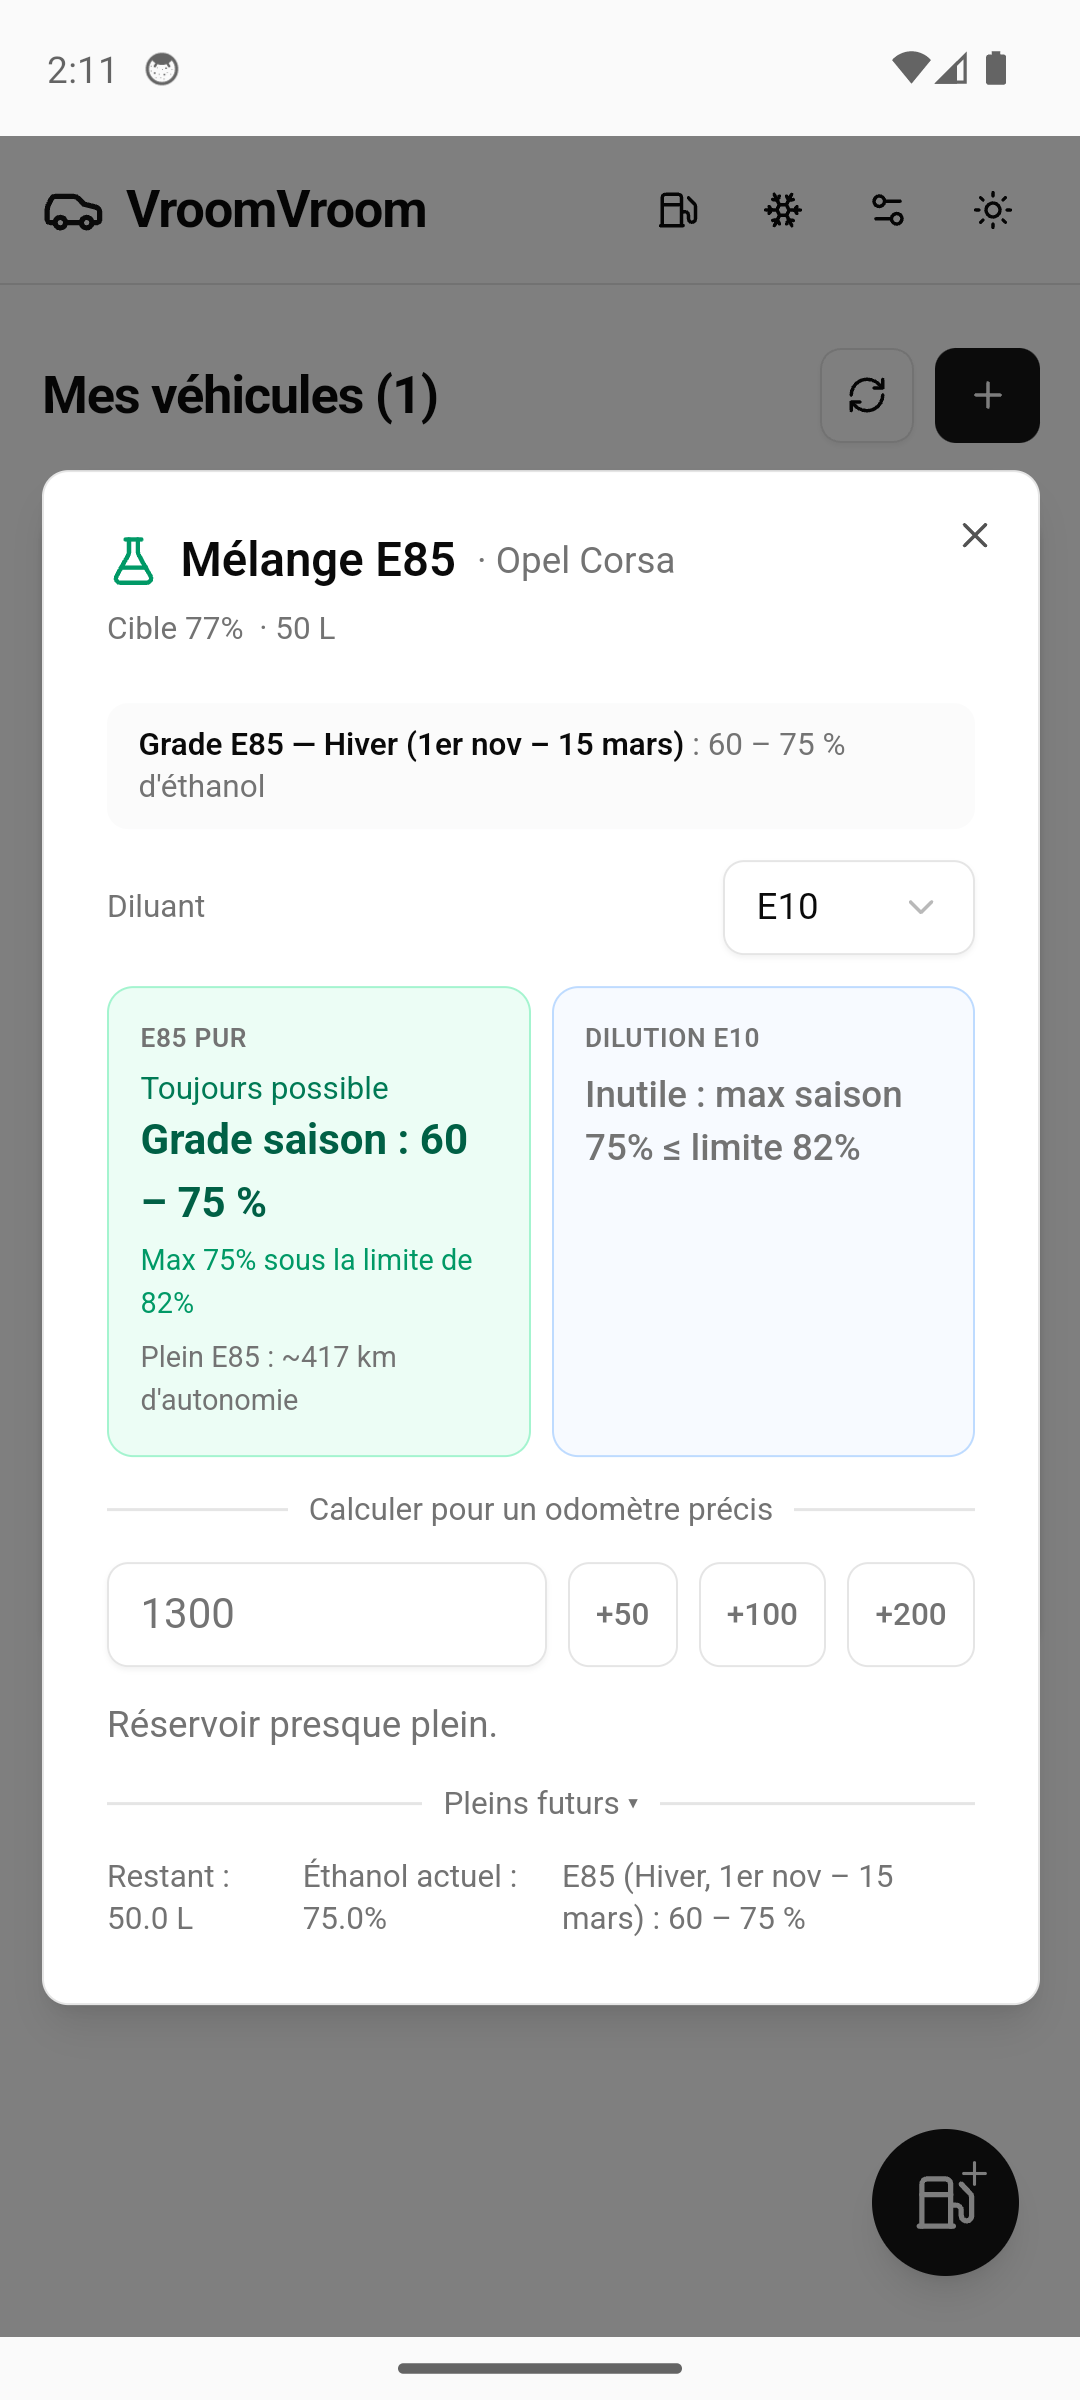
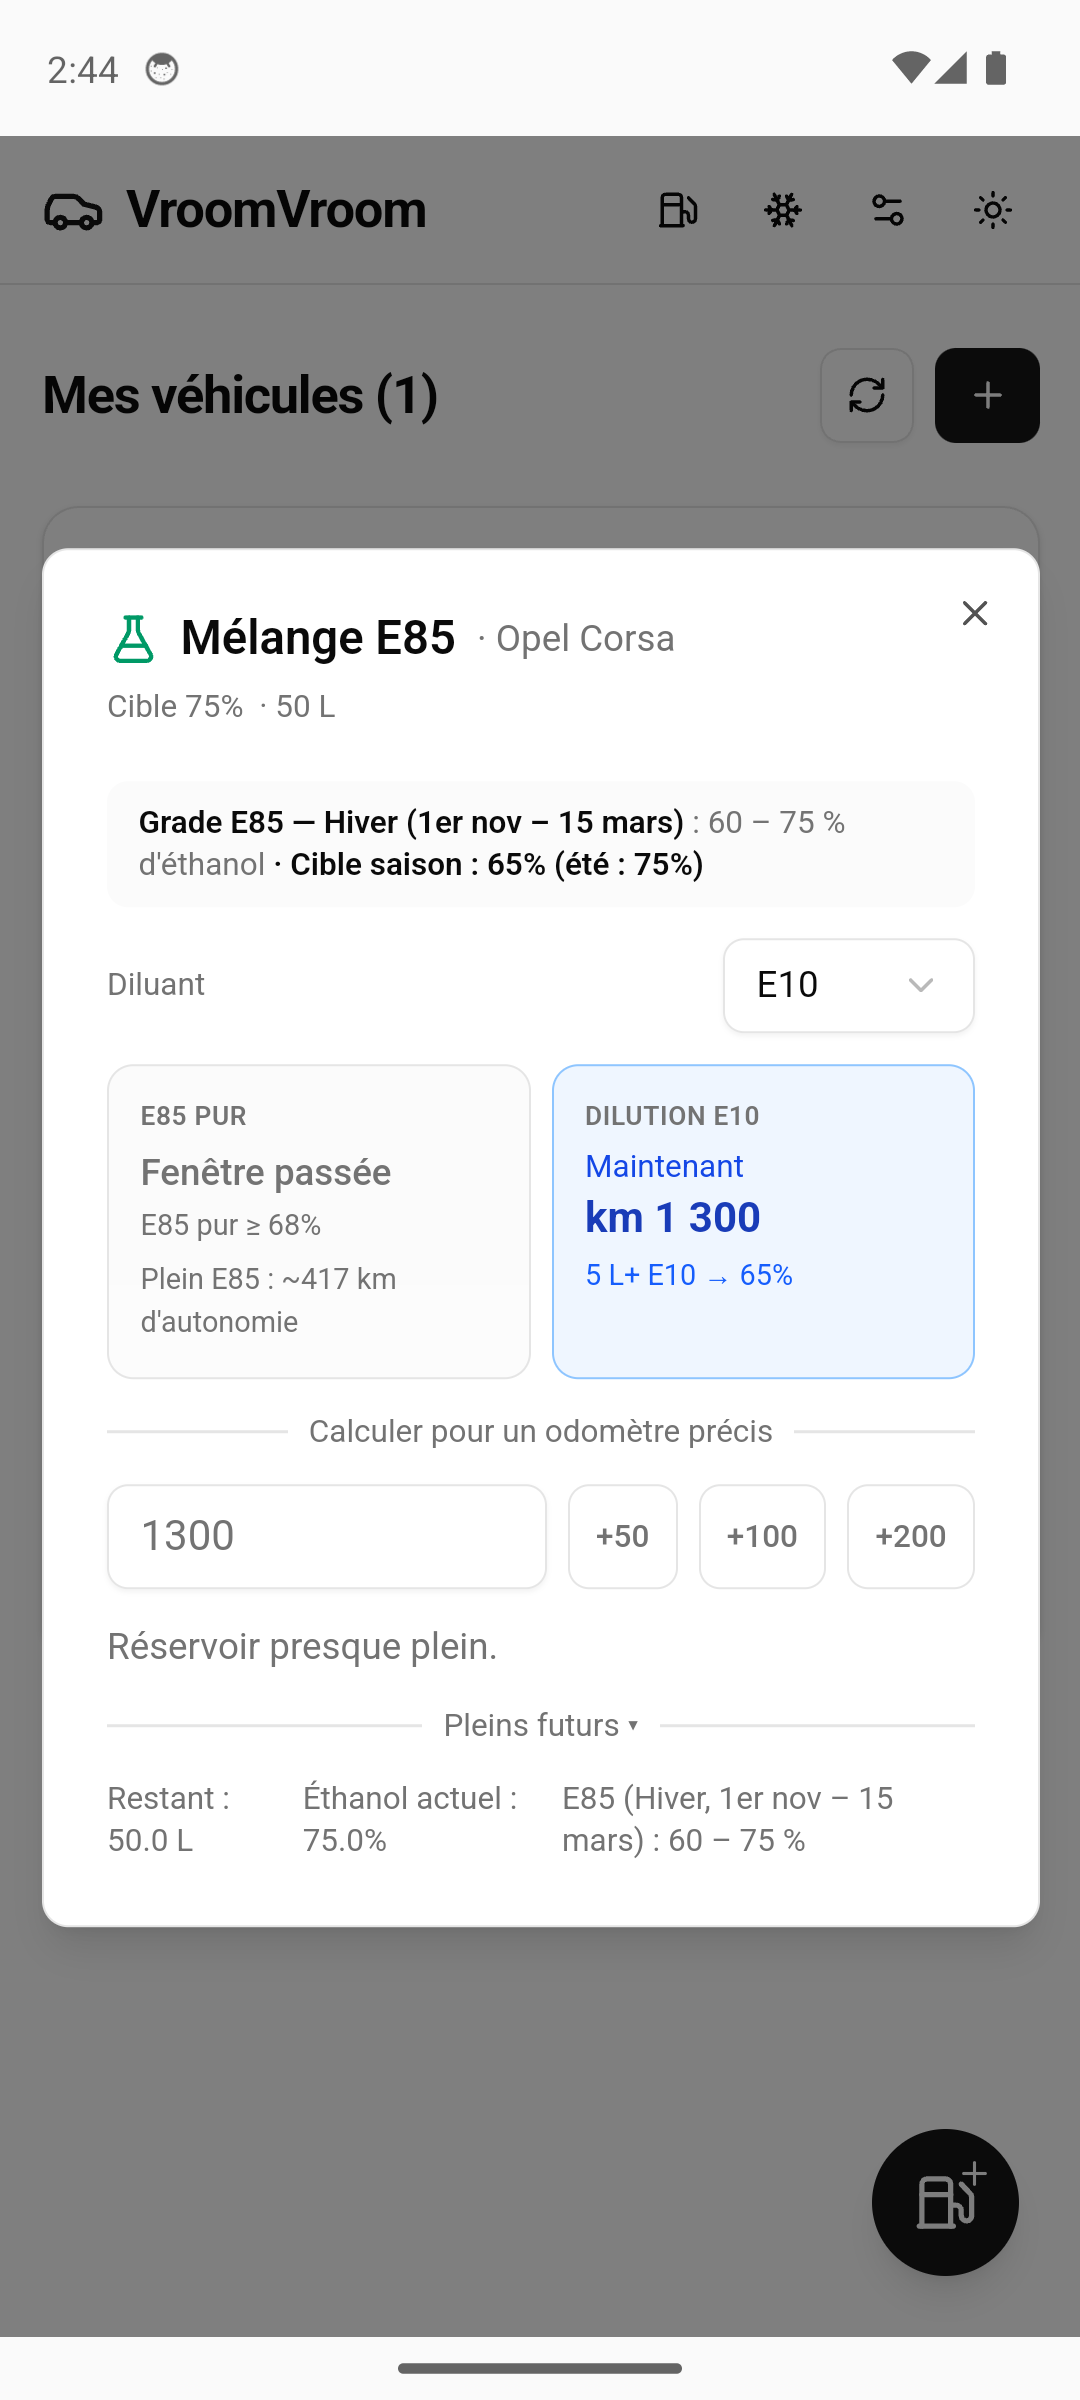
Dialog calculateur : en-tête 'Cible X% (été)' ; doc + capture hiver réelle (Fenêtre passée / dilution Maintenant)

diff --git a/frontend-react/src/components/flexfuel/BlendCalculatorDialog.tsx b/frontend-react/src/components/flexfuel/BlendCalculatorDialog.tsx
@@ -40,7 +40,7 @@ export function BlendCalculatorDialog({ vehicleId, onClose }: BlendCalculatorDia
 
         {conversion && (
           <p className="text-xs text-muted-foreground -mt-2 mb-1">
-            Cible {conversion.target_ethanol_pct}% &nbsp;· {vehicle?.tank_capacity ?? '?'} L
+            Cible {conversion.target_ethanol_pct}% (été) &nbsp;· {vehicle?.tank_capacity ?? '?'} L
           </p>
         )}
 

diff --git a/docs/app-android-utilisation.md b/docs/app-android-utilisation.md
@@ -57,22 +57,18 @@ surconsommation boîtier 20 %) :*
   courante avec sa **fourchette** (les stations ne sont pas obligatoirement au taux
   nominal). Les 4 saisons : **Été** 1/5–30/9 : 85–85 % · **Intersaisons** 1/10–31/10
   et 16/3–30/4 : 65–75 % · **Hiver** 1/11–15/3 : 60–75 %.
-- Cartes à bornes : « Toujours possible / Grade saison : 60 – 75 % / Max 75 % sous la
-  limite de 82 % » et « Inutile : max saison 75 % ≤ limite 82 % » — les bornes
-  expliquent pourquoi, au lieu de rien dire.
-- **En été** (max 85 % > limite 82 %) : les km de seuils reviennent — « Jusqu'au km X »
-  (dernier km à plein E85 pur sous la limite) et « À partir du km Y » (km à atteindre
-  pour pouvoir diluer au taux nécessaire, 5 L de diluant → cible exacte).
+- Cartes : « E85 PUR » (Jusqu'au km X / Fenêtre passée / Toujours possible) et
+  « DILUTION E10 » (Maintenant / À partir du km Y / Inutile) — avec la cible
+  saison, les seuils sont actifs **toute l'année** (capture ci-contre : hiver,
+  réservoir à 75 % ≥ limite 68 % → « Fenêtre passée » + dilution « Maintenant »).
 - Sélecteur de diluant (E10/SP98), calcul pour un odomètre précis (+50/+100/+200),
   simulation « Pleins futurs » par paliers.
 - Tous les calculs de sécurité utilisent le **max** de la saison (surestimer
   l'éthanol = recommander plus d'essence, jamais moins).
 - **Cible adaptée à la saison** : le taux cible est saisi sur l'échelle de l'été
-  (85 % = max d'été) ; l'app le décale de (max_saison − 85). Ex. 77 % saisi →
-  77 % en été, **67 % en intersaisons/hiver** (limite 72 % avec tolérance ±5).
-  Conséquence : l'E85 hivernal (jusqu'à 75 %) peut dépasser la limite d'hiver →
-  les km de seuils et la recommandation de dilution s'affichent **toute l'année**.
-  Le réglage enregistré ne change jamais (il garde sa valeur « été »). Modèle
+  (85 % = max d'été) ; l'app le décale de (max_saison − 85). Ex. 75 % saisi →
+  « Cible saison : 65 % (été : 75 %) » en hiver ; les calculs utilisent la cible
+  saison (tolérance absolue). Le réglage enregistré ne change jamais. Modèle
   documenté dans `docs/plan-grade-e85-saisonnier.md`.
 
 Ces seuils utilisent exactement les mêmes fonctions que la version serveur

diff --git a/CONTEXT.md b/CONTEXT.md
@@ -61,11 +61,28 @@ obligatoirement au taux nominal). Plan validé dans `docs/plan-grade-e85-saisonn
 - UI : ligne « **Grade E85 — {saison} ({période}) : min – max % d'éthanol** » en haut
   du calculateur + dans la carte « À la pompe » ; cartes bornées (« Grade saison :
   60 – 75 % », « Inutile : max saison 75% ≤ limite 82% ») ; footer borné. `summerRef`
-  supprimé. Km de seuils actifs seulement quand max saison > limite (été).
+  supprimé. (Sous-section suivante : la cible saison rend les seuils actifs toute
+  l'année.)
 - Alerte froid : `isWinterWindow` = saison `hiver` (31/10 n'est plus « hiver ») ;
   message « (grade E85 60 – 75 % en cette période) ».
 - Tests : bornes des 4 saisons (9 dates), wrapper, format, calculateur hiver/été avec
   `vi.setSystemTime` (deterministe), pompe, froid. **355 vitest verts + tsc -b.**
+
+### Cible adaptée à la saison (suite, même jour)
+
+L'utilisateur veut saisir sa cible **sur l'échelle de l'été** (85 % = max d'été) :
+« si je mets 75, en hiver c'est 65 car le max est 75, donc 10 % d'éthanol en
+moins ». Règle confirmée (2 questions, 2/2 recommandations validées) :
+- `seasonalTarget(inputPct, season)` = input + (max_saison − 85) ; le réglage
+  enregistré (target_ethanol_pct de la conversion) ne change jamais.
+- **Tous les calculs** (calculateur, pompe, seuils km, dilution, dépassement) +
+  affichages de limite utilisent la cible saison ; tolérance absolue (±5 pts).
+  Affichages : « Cible saison : 67% (été : 77%) » (calculateur), « · cible 67% »
+  (pompe), « Cible 77% (été) » (en-tête), indice formulaire de conversion.
+- Conséquence voulue : avec 77/5, limite d'hiver = 72 % < max E85 hiver 75 % →
+  km de seuils + dilution affichés en hiver comme en été. Réservoir pauvre en
+  éthanol (10 %) : plein direct E85 reste OK en hiver (36 % après plein) — test
+  pompe inchangé. **356 vitest verts + tsc -b.**
 
 ---
 
